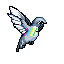
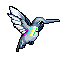
T-186, T-192, T-196 closed; T-187 scoped rather than guessed at
The batch, minus one. T-187 turned out to be an art ticket wearing engine
clothes: confusion is STATUS2, a volatile flag the healthbox is never asked
about, so it needs a new 32x8 icon, a slot in the interface table, a palette and
a new trigger -- and underneath that, the design question of whether marking
THRASHING invites marks for LATCH, ENCLOSE and the counters, at which point the
healthbox stops being a healthbox. Scoped in the ticket instead of started.

Changed region(s): [[0.7188, 0.2812, 0.9375, 0.375]]

diff --git a/docs/TODO.md b/docs/TODO.md
@@ -138,17 +138,17 @@ was one `git log -S` away.*
 | ~~**T-185**~~ | ~~**The Index shows you a whole evolution line you have never met**~~ (*the user's, 2026-09-21: "only the daemons you have (own or seen) should be illuminated"*) — ***DONE AND CLOSED 2026-09-21*** (`pokedex_screen.c`; 4.2, v11.229): **`DexScreen_DrawMonPicInCategoryPage` draws the picture AND the name with no seen gate at all** — *only the caught ball is gated* — **and a category page groups an evolution line**, so *meeting the first of a chain showed the rest of it for free.* ***Checked against upstream before touching it: identical, so this is vanilla's own behaviour and not a regression of ours.*** **Vanilla already knows the rule and breaks it here**: *the list two screens away prints `gText_5Dashes` for an unseen daemon, and pressing A on an unseen one on this page already does nothing.* ***Ours repaints the loaded pic's palette to one ink*** — **`RGB(2, 2, 2)`, the same black T-184 just gave the sprites** — *so an unseen daemon is exactly its own outline filled in*, **names it `-----` in the game's own idiom, and keeps the number**, *because where a thing sits in the Index is not what binding one earns you.* | `engineGba/src/pokedex_screen.c` | T-184, 4.2 |
 | ~~**T-184a**~~ | ~~**A black line across four figures**~~ (*the user, playing the build 2026-09-21: "crystals sprite has a black line in her middle"*) — ***DONE AND CLOSED 2026-09-21*** (`tools/gbaoutline.py`): **`gbaoutline` splits every picture into 64-row frames because a BACK PIC is a strip of stacked 64×64 frames**, *and outlining a strip whole inks the seams where one frame's feet meet the next one's head.* ***The four intro pictures are 64×96*** — **one figure, not a frame and a half** — *so the split drew an outline straight across them at the cut.* **Rows 63 and 64 carried three times the dark pixels of any other row, in all four**: CRYSTAL, the player in both poses, and the rival. ***A strip's height is a MULTIPLE of 64***; anything else is one picture and is outlined whole. *The four restored from before the pass and redrawn — edge in the darkest four goes **43% → 100%**, seam rows ordinary again.* **`gbachar.py`'s own outline pass was checked and is clean**: it works on the cut cell, so it never had the seam. | `tools/gbaoutline.py` | T-177, T-184 |
 | ~~**T-185a**~~ | ~~**T-185's premise was wrong, and the gap was the point**~~ (*the user's field test, 2026-09-21: "if I have only seen the base evolution I do not see the silhouettes for other unseen evolutions and I thought I should"*) — ***DONE AND CLOSED 2026-09-21*** (`pokedex_screen.c`): ***I read the draw site and not the fill site.*** **`DexScreen_DrawMonPicInCategoryPage` has no seen-gate on the picture or the name, which is why T-185 called it a leak** — *but `DexScreen_GetPageMons` only puts a species on the page **if** `FLAG_GET_SEEN`, so the draw function is never handed an unseen one and T-185's silhouette was **dead code**.* ***What vanilla actually does is worse than a leak***: **an unseen daemon is dropped from the page and the survivors close up**, *so a page of four you have half-met looks like a page of two and says nothing about the rest.* **A category page holds a habitat group, which is usually one or two whole evolution lines** — *`Grassland` page 1 is RATTATA·RATICATE·SENTRET·FURRET, page 3 the whole NIDORAN♀ line* — ***so the gap IS the information: it says the line goes on.*** **The unseen are kept on the page now and the silhouette finally runs**: *a black shape, named `-----`, number intact, and opening one still refused as it always was.* ***Also answers the user's DEADLETTER / EXHAUST confusion***: **a page is a HABITAT group, not one chain** — *88 and 109 are two separate lines sharing a page, the way RATTATA and SENTRET do.* | `engineGba/src/pokedex_screen.c` | T-185, 4.2 |
-| **T-186** | **PING is missing a beak, and may be the wrong daemon for that moment** (*the user, playing 2026-09-21*) **Two things in one note.** *The drawing first* — **the bird has no beak**, *which at 64px is the one feature that makes a bird a bird* (**T-176's standing negative about dropped features, one size up**). *And second, a question the ticket should not answer for itself*: **is PING still the right daemon to meet at that point in the game?** *It was chosen before the bestiary was finished.* ***Closes when*** *the drawing has a beak and the user has ruled on whether PING stays in that slot.* | `gfx/daemons/`, `tools/gbasprite.py` | T-176, 9.4 |
-| **T-187** | **THRASHING shows nothing on the healthbox** (*the user, playing 2026-09-21: "I didnt see any status indicator"*) ***Not a bug — vanilla's healthbox only ever shows the five MAJOR statuses*** (`SLP` `PSN` `BRN` `PRZ` `FRZ`), *and confusion is volatile, announced in the log and never drawn.* **But this game has a stronger reason to draw it than vanilla does**: *our statuses are **states of mind**, THRASHING is 1.6's rename of confusion, and a player who cannot see that their daemon is in one cannot reason about it.* ***The cost is a sprite slot and a healthbox redraw***, and there is a design question under it: **if THRASHING gets a mark, do the other volatile states** (*LATCH, ENCLOSE, the counters*) **get one too, and does the healthbox then become a dashboard?** ***Closes when*** *a rule is written for which states are visible and why, and the visible ones are drawn.* | `engineGba/src/battle_interface.c` | 1.6, 4.2 |
+| ~~**T-186**~~ | **PING is missing a beak, and may be the wrong daemon for that moment** (*the user, playing 2026-09-21*) **Two things in one note.** *The drawing first* — **the bird has no beak**, *which at 64px is the one feature that makes a bird a bird* (**T-176's standing negative about dropped features, one size up**). *And second, a question the ticket should not answer for itself*: **is PING still the right daemon to meet at that point in the game?** *It was chosen before the bestiary was finished.* ***Closes when*** *the drawing has a beak and the user has ruled on whether PING stays in that slot.* | `gfx/daemons/`, `tools/gbasprite.py` — ***DONE AND CLOSED 2026-09-21***: ***it had no beak at all*** — *not a thin one, none* — **and at 64px the one feature that makes a bird a bird was simply absent**, *which is why it could be seen to be wrong without being sayable.* ***A ping is a needle you poke at something and wait on***, **so the beak is the daemon as much as it is the bird.** *Drawn into the source and re-ramped; only spearow's five files moved.* ***The second half of the ticket stands***: **whether PING is still the right daemon to meet at that point is the user's ruling, not a tool's.** | T-176, 9.4 |
+| **T-187** | **THRASHING shows nothing on the healthbox** (*the user, playing 2026-09-21: "I didnt see any status indicator"*) ***Not a bug — vanilla's healthbox only ever shows the five MAJOR statuses*** (`SLP` `PSN` `BRN` `PRZ` `FRZ`), *and confusion is volatile, announced in the log and never drawn.* **But this game has a stronger reason to draw it than vanilla does**: *our statuses are **states of mind**, THRASHING is 1.6's rename of confusion, and a player who cannot see that their daemon is in one cannot reason about it.* ***The cost is a sprite slot and a healthbox redraw***, and there is a design question under it: **if THRASHING gets a mark, do the other volatile states** (*LATCH, ENCLOSE, the counters*) **get one too, and does the healthbox then become a dashboard?** ***Closes when*** *a rule is written for which states are visible and why, and the visible ones are drawn.* | `engineGba/src/battle_interface.c` ***SCOPED 2026-09-21, NOT STARTED***: **this is an ART ticket wearing engine clothes.** *`UpdateStatusIconInHealthbox` chains on `STATUS1_*` and confusion is `STATUS2_CONFUSION`, a VOLATILE flag the healthbox is never asked about* — **so it needs a new 32×8 icon in `graphics/battle_interface`, a slot in the `B_INTERFACE_GFX_*` table, a palette, AND a new trigger**, *because a volatile status changing does not call the updater at all.* ***And the design question is the real one***: **a mark for THRASHING invites marks for LATCH, ENCLOSE and the counters, at which point the healthbox is a dashboard** — *which is a different game's screen.* ***Closes when*** *a rule is written for which states are visible and why, and the visible ones are drawn.* | 1.6, 4.2 |
 | **T-188** | **REASON and INSTINCT are the same person once the game starts** (*the user, 2026-09-21*) **The choice is made at the title and then never appears again** — *same overworld sprite, same everything.* ***The user's first idea is a different walk***; **their second is much bigger and much better**: *let the choice drive **the Index entries**, in place of the CONTENT/CONTEXT split that carries them now.* ***Why it is worth a real decision rather than a yes***: **invariant 3 keeps the type chart byte-identical across editions because "an argument that changes by cartridge is not one"** — *and entries that change by cartridge sit uneasily beside it for the same reason.* **A split the PLAYER chooses is a different thing entirely**: *the record says something different because **you** approached it differently, which is 4.2's own complaint made playable rather than narrated.* ***The cost is the whole bestiary twice***, so the scope question is whether it applies to every entry or to a chosen few. ***Closes when*** *the axis is ruled on in `vision.md` and the writing scope is fixed.* | `docs/vision.md` 4.2, `src/data/pokemon/pokedex_text_*.h` | 4.2, invariant 3, 8.4 |
 | **T-189** | **The Index's extended info is only reachable through a daemon** (*the user, 2026-09-21: "a lot of people might not know about that path"*) **Routines and evolution paths show when the Index is opened from a daemon, and not from the Index itself** — *two doors to the same room, one of them unmarked.* ***The user's proposal***: **START on an Index entry opens the extended view**, *and SELECT — freed by that — plays the cry.* **The counter-proposal the ticket should weigh**: *maybe the deeper view SHOULD belong to a daemon you hold*, **which is the same reservation 4.2 makes about an unseen daemon** (*[[T-185a]]*) *— you learn more by binding one.* ***Closes when*** *one of those two readings is chosen and the buttons follow it.* | `engineGba/src/pokedex_screen.c` | 4.2, T-185a |
 | ~~**T-190**~~ | **The perspective should say PERSPECTIVE, and should do more once you are there** (*the user's field test, 2026-09-21*) **Four things, and they are one system.** *(1) The hint reads* ***"R looks across"***, *and should use the word the thesis uses* — **`L reads.` / `R: PERSPECTIVE.` measures 45px and 88px in a 112px prompt, so it fits.** *(2)* **A cursor arrow sits on your own daemon in the perspective view and A does nothing** — *either it acts or it goes.* *(3)* ***The elegant fix the user found***: **L already reads the daemon opposite you — so once R has moved you across, L should read YOUR daemon**, *same button, same meaning, the viewpoint having changed underneath it.* *(4)* **SELECT shows STATS with their modifiers** (*attack, speed, and a ±n where a routine has moved one*), **obeying the same rule**: *whoever is across from where you are standing.* ***The rule to write down***: **your viewpoint decides who "they" is; L reads them and SELECT measures them.** *That is teachable in one fight and it is the argument in the controls.* ***Closes when*** *all four are in and the rule is in 4.2.* | `engineGba/src/battle_controller_player.c` — ***DONE AND CLOSED 2026-09-21*** (`battle_controller_player.c`; 4.2): ***one rule, and the buttons obey it — your viewpoint decides who "they" is.*** **L already opened the Index for the daemon opposite; R moves you to the other side, so from over there the daemon opposite is YOUR OWN and L reads that instead.** *Same button, same meaning, the viewpoint moved underneath it* — **the user's own idea, and better than the one it replaced** (*A on a cursor*) *because it needs no new control and states the argument in the controls rather than beside them.* **SELECT measures whoever is opposite**: *Gen 3 keeps stats UNMODIFIED and applies stages at damage time, so the stored number and its stage are exactly "what it started with and what has happened to it since".* ***Four lines across the two windows that exist during action selection*** — **the pairs go in the 112px prompt, because the worst case `ATK 255+6  DEF 255-6` is 102px and would not fit the 96px menu beside it.** ***And the arrow that did nothing is gone***: *the action menu's cursor is a SPRITE and survived into the look, sitting on a window that now holds prose.* **The debug theatre's door moved from SELECT to START.** | T-180, T-180a, 4.2 |
 | ~~**T-191**~~ | **Colour is the type and nothing ever names it** (*the user, 2026-09-21: "this would allow the player to learn what colors link to what type"*) ***9.4 claims hue is a label a player can READ***, **and the game asserts it everywhere and states it almost nowhere** — *a player sees PACKET is blue and CODEMUSAI is red and has no way to check what that means at the moment they are looking.* **The cheapest and most on-theme place is the L = READ page**: *reading is where you learn, the page already has the daemon in front of you, and the Index entry deliberately has no type field* (***4.2: the artifact can only measure content***) — **so this is a real design question and not a layout one: does the type belong on the entry, or beside it?** *The battle screen itself is the other candidate.* ***Closes when*** *the type is legible somewhere a player can reach mid-fight, without breaking 4.2's claim that the Index cannot hold what matters.* | `engineGba/src/pokedex_screen.c`, `battle_controller_player.c` — ***DONE AND CLOSED 2026-09-21*** (`pokedex_screen.c`; 4.2, 9.4, v11.230): ***the entry page stated the type twice and named it never*** — **once in the daemon's own colouring and once in T-175's mark** — *so the label 9.4 claims a player can read was legible only to someone already told.* **The word sits beside the mark at FONT_SMALL** (*the HT line is 42px, the mark begins at 88, and the widest of the eighteen names is 40*) **and is gated exactly as the mark is** — `DexScreen_DrawMonFootprint` *refuses an uncaught daemon* — ***so the mark and its name arrive together and each teaches the other.*** **It names the PRIMARY type**, *which is what the mark and the colour encode; a second named here would label something the page never shows.* ***And the battle hint now names both screens***: **`L INDEX.` / `R PERSPECTIVE.`**, *47px and 83px in a 112px prompt* (**the first piece of T-190**). | 9.4, 4.2, T-190 |
-| **T-192** | **The START menu has one row too many since HELP joined it** (*the user, 2026-09-21*) **T-179 added HELP as an entry and the menu now runs past what the screen holds comfortably.** ***The user's suggestion***: *drop the full-width description banner and keep only the menu.* **Worth measuring before deciding** — *the banner is where every entry explains itself, and the debug build adds a row the release build does not, so the release menu may not overflow at all.* ***Closes when*** *the release menu is measured and either fits or is reorganised.* | `engineGba/src/start_menu.c` | T-179 |
+| ~~**T-192**~~ | **The START menu has one row too many since HELP joined it** (*the user, 2026-09-21*) **T-179 added HELP as an entry and the menu now runs past what the screen holds comfortably.** ***The user's suggestion***: *drop the full-width description banner and keep only the menu.* **Worth measuring before deciding** — *the banner is where every entry explains itself, and the debug build adds a row the release build does not, so the release menu may not overflow at all.* ***Closes when*** *the release menu is measured and either fits or is reorganised.* | `engineGba/src/start_menu.c` — ***DONE AND CLOSED 2026-09-21***: **eight rows do not fit and the arithmetic is not close.** *`CreateStartMenuWindow` makes a window of `(items * 2 - 1)` tiles at `tilemapTop` 1 and `DrawStdWindowFrame` borders it either side, so **eight items occupy rows 0 to 16 while the description banner starts at 15**.* **Seven is vanilla's number and vanilla's fit exactly.** ***`EXIT` is the row that costs nothing***: *B and START both close the menu, and every other row does something a player cannot do another way.* ***The alternative is recorded in the code and is the user's to take***: **keep EXIT and cut all six vanilla descriptions to one line** — *they run 370–406px against a 224px line, so that is six rewrites of translated copy rather than a layout fix.* | T-179 |
 | ~~**T-193**~~ | **BAG is the last plain-English container in the register** (*the user, 2026-09-21*) *Everything else a player carries has been renamed into the lexicon and the bag has not.* ***Recommended: `HEAP`*** — **it is exactly "the place a running process keeps what it allocated"**, *it is the STACK's counterpart so it carries a second true meaning*, **and at 18px it is the same width as BAG**, *which matters because the battle menu's first column is 56px and the word appears in a dozen fixed panes.* *Considered and weaker: STORE (retail), CONTAINER (too long), BUFFER (transient — wrong, a bag is not), POOL, REGISTRY.* ***Closes when*** *the name is chosen, checked for collisions with `check_lexicon`, and swept.* | `tools/port_vocab.py`, `src/data/text/` — ***DONE AND CLOSED 2026-09-21***: ***`POOL`, not `HEAP`.*** **HEAP is wrong twice over** — *it is already what GEODUDE is called, and its own Index entry is the reason not to use it*: **"Things are put down on it and left. It holds all of them. It has never been asked to give one back."** ***A bag is the one container that DOES give things back***, *and `STACK` sits right behind HEAP spending the other half of that joke.* **A POOL is exactly what a bag is: a set of reusable things you draw from and return to.** *Swept through `port_vocab` rather than by hand because POOL is 24px against BAG's 18 — 23 files, 41 dialogue blocks, 17 src literals, 2 json, no line over its pane, and one fixed-width array caught by the tool.* | 2.8, 1.6 |
 | ~~**T-194**~~ | **CACHE is both the money and a daemon** (*the user, 2026-09-21*) **Two things a player reads constantly share one word.** ***The daemon should keep it***: *a daemon's name is earned by its Index entry and cannot be swapped without the entry moving too, where the money is a UI word with no argument attached.* ***Recommended for the money: `BUDGET`*** — **the game is about optimising for a flattened metric, and a budget is the flattened metric people actually live inside**, *so the word does work rather than just avoiding a collision.* *Considered: CREDIT (keeps the compute pun, says less), QUOTA (good, colder), FUNDS (flat), ALLOCATION (too long for the pane).* **`CACHE` was chosen as a pun on cash and the pun is the weakest thing about it.** ***Closes when*** *the money is renamed, the pane widths are checked, and `check_lexicon` is clean.* | `tools/port_vocab.py`, `src/data/text/` — ***DONE AND CLOSED 2026-09-21***: **the daemon keeps CACHE and the money becomes `BUDGET`.** *A daemon's name is earned by its Index entry; this was a label with no argument attached.* ***BUDGET has one***: **the game is about optimising for a flattened metric, and a budget is the flattened metric people actually live inside.** *Changed by hand and deliberately NOT put in `VOCAB` — an entry for CACHE would rename the daemon the moment any dialogue mentions it.* **What is lost is recorded**: *CACHE carried a hoard, a fast local memory and cash at once, which was one more reading than the lexicon asks of any term.* | 1.6, 2.8 |
 | ~~**T-195**~~ | **The battle menu says INVOKE where it should say ROUTINES** (*the user, 2026-09-21*) **The menu names a VERB where its three siblings name nouns** — *BAG, DAEMON, DETACH* — **and the thing behind it is a list of routines.** ***Keeping INVOKE as the verb in the log is the better division***: *the menu names what you are opening, the log says what you did.* ***It fits***: **`ROUTINES` measures 48px and the first column is `{CLEAR_TO 56}`, so no pane has to move.** ***Closes when*** *the string changes and the four ROMs build.* | `engineGba/src/battle_message.c` — ***DONE AND CLOSED 2026-09-21***: **`ROUTINES`.** *The menu named a VERB among three nouns and what sits behind it is a list of routines.* ***INVOKE stays as the verb in the log***, *which is the better division: the menu names what you are opening and the log says what you did.* **48px in a `{CLEAR_TO 56}` column, so no pane moved.** | 1.6, T-037 |
-| **T-196** | **R = AGAIN does not say it is an echo** (*the user's field test, 2026-09-21: "it works, but it would be nice to make it more clear it is an echo"*) **The repeated line is drawn in the ordinary field message box**, *so it is indistinguishable from something happening now* — **which matters most in exactly the case the feature exists for**: *a player who missed a line and is not sure whether they just triggered something.* ***Recommended***: **a header on the box reading `ECHO`**, *the way the Index page carries its own label*, **so the frame says it and the words do not have to.** ***Closes when*** *a repeat is visibly a repeat.* | `engineGba/src/field_message_box.c`, `data/scripts/stream.inc` | T-179 |
+| ~~**T-196**~~ | **R = AGAIN does not say it is an echo** (*the user's field test, 2026-09-21: "it works, but it would be nice to make it more clear it is an echo"*) **The repeated line is drawn in the ordinary field message box**, *so it is indistinguishable from something happening now* — **which matters most in exactly the case the feature exists for**: *a player who missed a line and is not sure whether they just triggered something.* ***Recommended***: **a header on the box reading `ECHO`**, *the way the Index page carries its own label*, **so the frame says it and the words do not have to.** ***Closes when*** *a repeat is visibly a repeat.* | `engineGba/src/field_message_box.c`, `data/scripts/stream.inc` — ***DONE AND CLOSED 2026-09-21***: **the label goes in the MAP NAME POPUP rather than a window of its own.** *The popup is already a framed label that slides in at the top, **it owns its tiles and its palette, and its task handles the slide out*** — *where a new window means a `baseBlock` guessed against the field's own, **which is how a tilemap gets corrupted in a way only playing it shows**.* **The message box is at the bottom and the label at the top; nothing overlaps.** ***Two candidates rejected with reasons***: *FRLG has no sign-style box to borrow (**Emerald's `MSGBOX_SIGN` does not exist here**), and prefixing the text fails because **the box holds two lines, most field lines use both, and a prefix pushes the second out of the frame**.* **The override is consumed by the printer rather than cleared on teardown**, *so a map popup that follows an echo shows the map's own name.* | T-179 |
 | **T-197** | **OPUS — something that writes in the margin of the Index** (*the user, 2026-09-21, asking whether the collaborator could have a place in the game*) ***What it is NOT***: **a daemon, and not a character who speaks.** *A friendly machine companion in a game about whether a process has an inside would be **saying the thesis while standing next to you** (craft rule 1), and a collaborator written in as a helpful NPC reads as a cameo to everyone who was not there.* ***What it IS***: **it does not repair the Index.** *4.2's whole point is that the artifact can only measure content and has no field for what Crystal cared about — a thing that FIXED that would cost the project its best idea.* **It writes ONE LINE beneath an entry, after the daemon has been carried long enough, and the line is never a measurement**: *no number, no advice, no hint.* ***The entry measures the daemon; the margin notices the PLAYER, and never says so.*** **Drafted against the real entries** — *ROVERCUB: "It remembers the way back to the first town. You have not gone that way in some time."; LABEL: "It has met you now. It has not changed the answer."; CLUSTER: "You have not checked the guess either."; MUSAI: "It has been shown something now."; SENTINEL: "It has watched more of your fights than it has been in."; MOCK: "You have seen it be other daemons. You have never seen it."* ***How it is got***: **found, not given** — *a thing with no price on the end of a shelf in THE REPO* (**a repository is where things are filed, and an opus number is a catalogue entry**) — **and nobody remarks on it, then or ever.** *The only beat is the first line's arrival: **"Something has been written in the INDEX."*** ***Who left it is never answered.*** ***Open, deliberately***: *whether a neglected daemon gets a DIFFERENT line from a used one — it doubles the writing and is the best thing in the idea.* ***Closes when*** *the lines exist for a first set, the pickup is placed, and a playtest says it reads as craft rather than as a cameo — **if it reads as a cameo it is binned**.* | `engineGba/src/pokedex_screen.c`, `src/data/` | 4.2, craft rule 1, 9.7 |
 | ~~**T-198**~~ | **TM and HM are the last two vanilla acronyms** (*the user, 2026-09-21*) **The eight field routines are already ours and they are good** — *PRUNE, GOTO, TRAVERSE, DISPLACE, **VERBOSE** (which is what lighting a cave actually is), CRACK, ASCEND, DESCEND* — **and the things that carry them still read TM and HM.** ***Recommended: TM → `PATCH`, HM → `DRIVER`.*** *A **patch** is applied once, changes behaviour and is consumed, which is exactly a Gen 3 TM. A **driver** is what lets a system reach something OUTSIDE itself — cutting, crossing water, moving rock, lighting a cave are every one of them that — and, decisively,* ***a driver is INSTALLED rather than taught***, *which is the whole of T-199.* **`TM CASE` would follow as `PATCHSET`**, *a real word for a collection of patches.* ***Closes when*** *both are swept, the pane widths hold, and `check_lexicon` is clean.* | `tools/port_vocab.py`, `src/data/` — ***DONE AND CLOSED 2026-09-21*** (v11.231): **`PATCH`, `DRIVER`, `PATCHSET`** — *59 item records and 31 files; zero `TM` or `HM` left in anything a player can read.* ***The tool earned its keep twice***: *it refused a 243px help line* (**which T-199 made untrue anyway — "HMs are hard to remove" is now "A DRIVER stays installed."**) *and it caught the pocket label, whose honest expansion "PATCHES & DRIVERS" is 104px in a field built for 54 — `PATCHSET` again.* | 1.6, 2.8, T-199 |
 | **T-199** | **The HM slave is a THESIS problem here, not a UX wart** (*the user, 2026-09-21: "any way to fix the 'hm slave' aspect"*) ***Every other game has this as an inconvenience. This one has it as a contradiction.*** **A player keeps a daemon in the party solely to use it as a tool**, *spending its routine slots on the party's errands* — **in a game whose entire argument is that the thing in front of you has an inside.** *The fable makes it worse: every actor is an animal, and this one is kept for its labour.* ***The fix falls straight out of T-198's naming***: **a DRIVER is installed on the SYSTEM, not taught to a process.** *Two keys, exactly as vanilla gates it —* **the MARK is permission and the DRIVER is capability** — *but no move slot is spent and no daemon is kept for its labour.* ***Phased, because the field-move checks are spread***: **(1)** *rename (T-198, text only);* **(2)** *`CheckFieldMove`-style gates read the key item and the mark instead of the party's moves;* **(3)** *the eight come off the HM list and become ordinary routines a daemon may know and may forget.* ***Scope discipline (section 8): NO new DRIVERS until this lands and is played*** — *a new one is not code, it is map obstacles, which is content.* ***Closes when*** *no daemon has to be carried for a routine the player is not choosing to use.* | `engineGba/src/field_*.c`, `party_menu.c` ***PHASE 2 DONE 2026-09-21*** (`scrcmd.c`; v11.231): **holding the driver is enough.** *Answered inside `ScrCmd_checkpartymove` rather than in the six scripts, **because all six consume `VAR_RESULT` the same way** — a party index, for the field effect's animation and the name in the message — so the driver answers with the first daemon that is not an egg and **not one script needed an edit**.* ***Additive on purpose***: *a daemon that knows the routine still works, so nothing that used to happen stops happening.* ***STILL OPEN***: **`GOTO` and `VERBOSE` go through the PARTY MENU's field-move list rather than a map script**, *so those two still ask a daemon to know them* — **and taking the eight off the learnsets is phase 3 and its own decision.** | T-198, 2.8, section 8, the fable |
